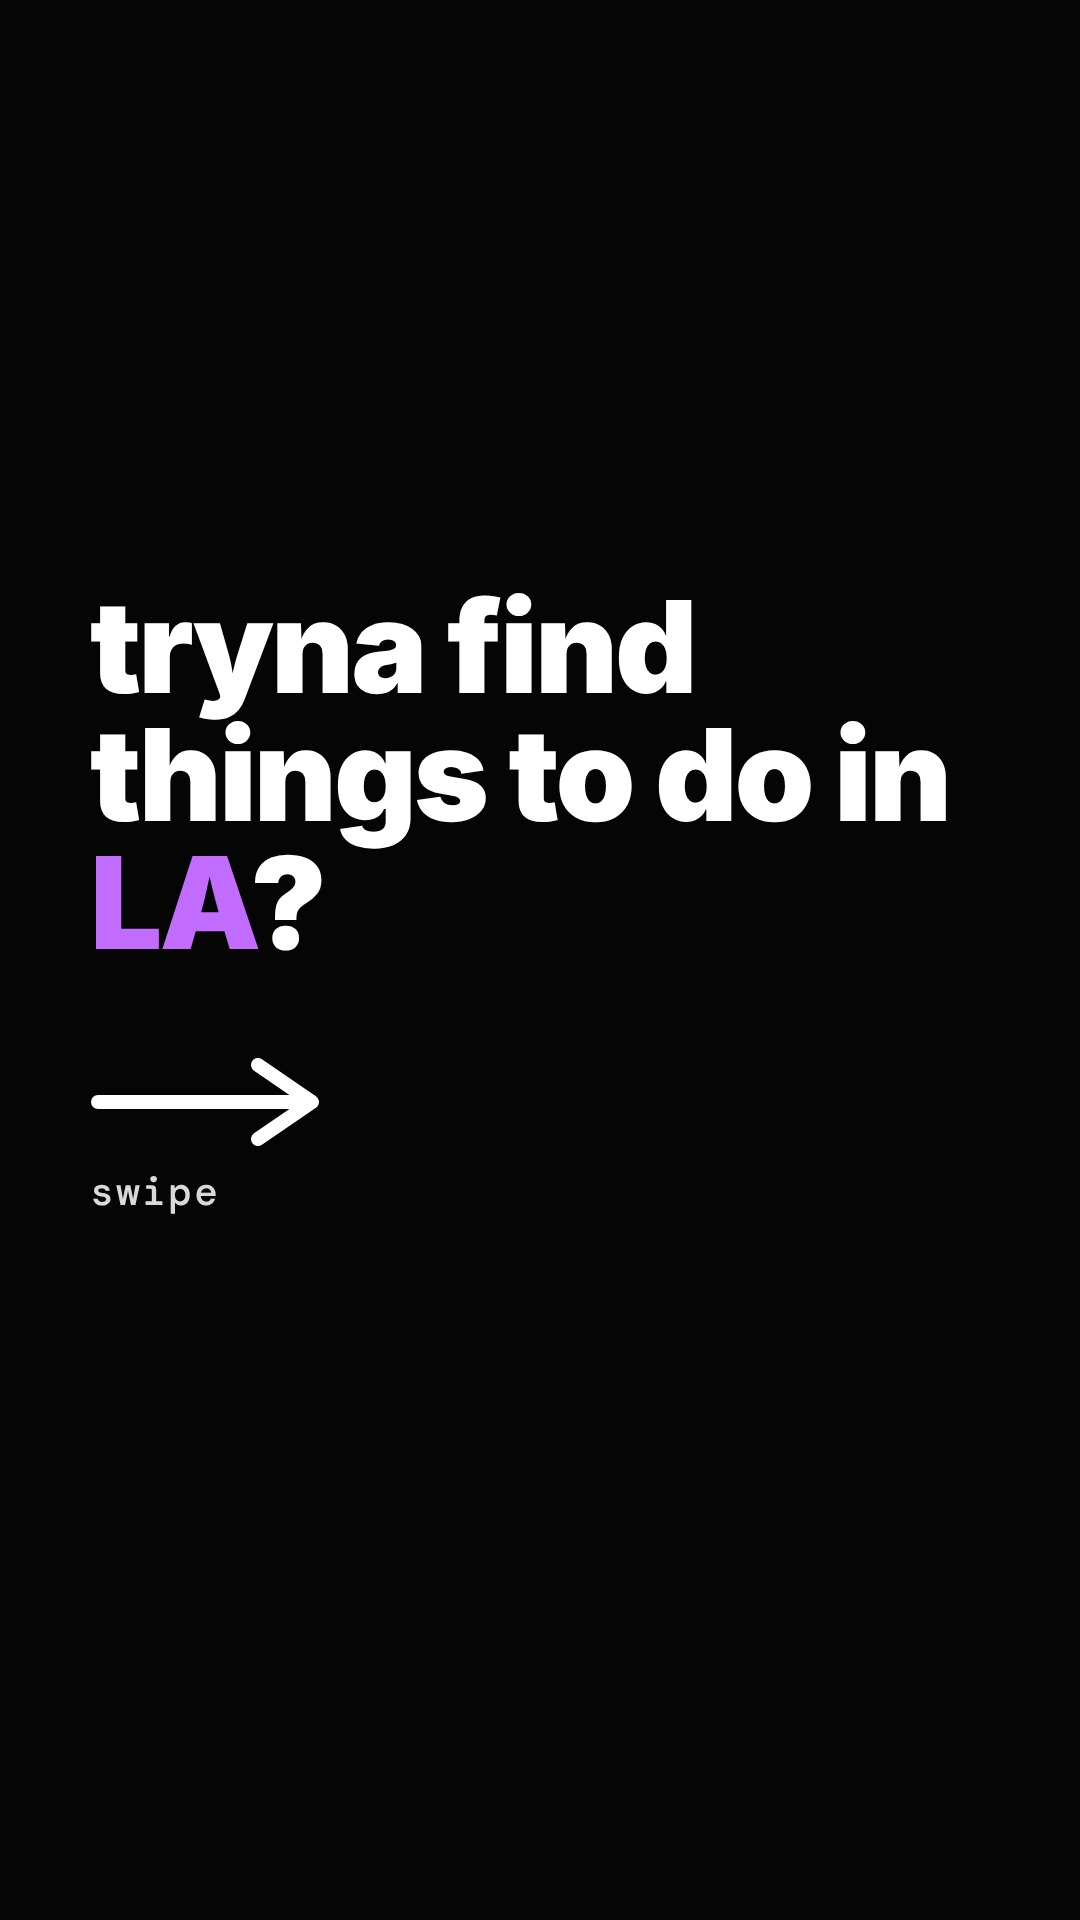
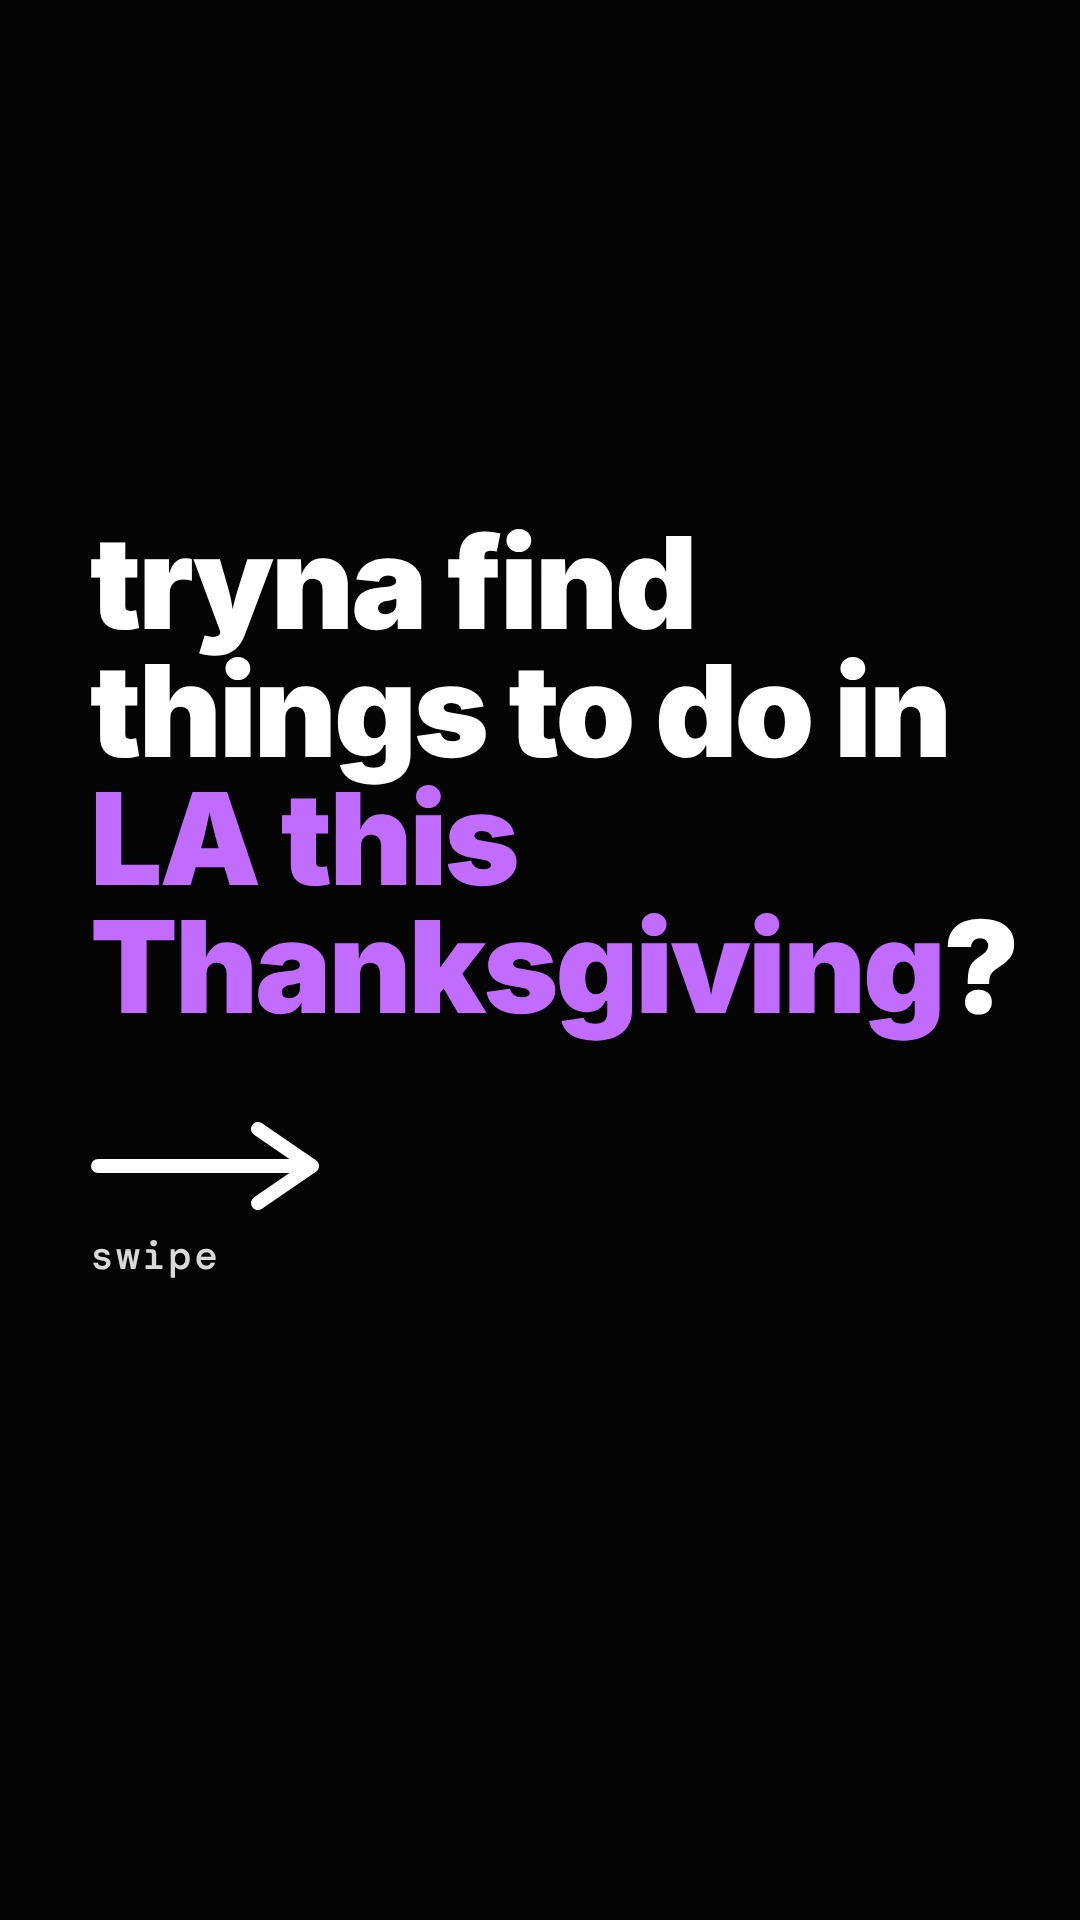
Thanksgiving carousel, LA: the cover says this Thanksgiving (founder, Nov 26)
Claude-Session: https://claude.ai/code/session_019i3sgX9J32sKfBsJBqzsN2

Changed region(s): [[0.0917, 0.25, 0.9472, 0.6562]]

diff --git a/videos/2026-11-26-la-tiktok/caption.md b/videos/2026-11-26-la-tiktok/caption.md
@@ -1,10 +1,10 @@
-**TikTok** (photo post, 9 slides; sound: the founder's pick, added by hand in the app; title: things to do in LA)
+**TikTok** (photo post, 9 slides; sound: the founder's pick, added by hand in the app; title: things to do in LA this Thanksgiving)
 
-things to do in LA 🦃 tonight: JERK HOLLYWOOD (free), Lost Without R&B (free), the NIGHTSHIFT afters. Friday: Club Underground, Night Tales. Saturday: Little Tokyo at Kodama Lounge (free), Midnight Lovers. every event in LA on one map with pxi, free on iPhone and Android #thingstodoinla #thingstodoinlosangeles #thanksgivinginla #losangeles #laevents
+things to do in LA this Thanksgiving 🦃 tonight: JERK HOLLYWOOD (free), Lost Without R&B (free), the NIGHTSHIFT afters. Friday: Club Underground, Night Tales. Saturday: Little Tokyo at Kodama Lounge (free), Midnight Lovers. every event in LA on one map with pxi, free on iPhone and Android #thingstodoinla #thingstodoinlosangeles #thanksgivinginla #losangeles #laevents
 
 **Instagram and Facebook** (carousel post, 9 slides, 1080x1350: `ig/1.jpg` to `ig/9.jpg`)
 
-things to do in LA 🦃 seven for Thanksgiving weekend, three of them free
+things to do in LA this Thanksgiving 🦃 seven picks, three of them free
 
 tonight: JERK HOLLYWOOD at Taste of The Caribbean from 5 (free), Lost Without R&B at Lost But Found at 9 (free), the NIGHTSHIFT afters downtown from 11 (21+).
 Friday: Club Underground at the Grand Star Jazz Club at 9:30 (about $11), Night Tales at The Spotlight at 10 (about $25).
